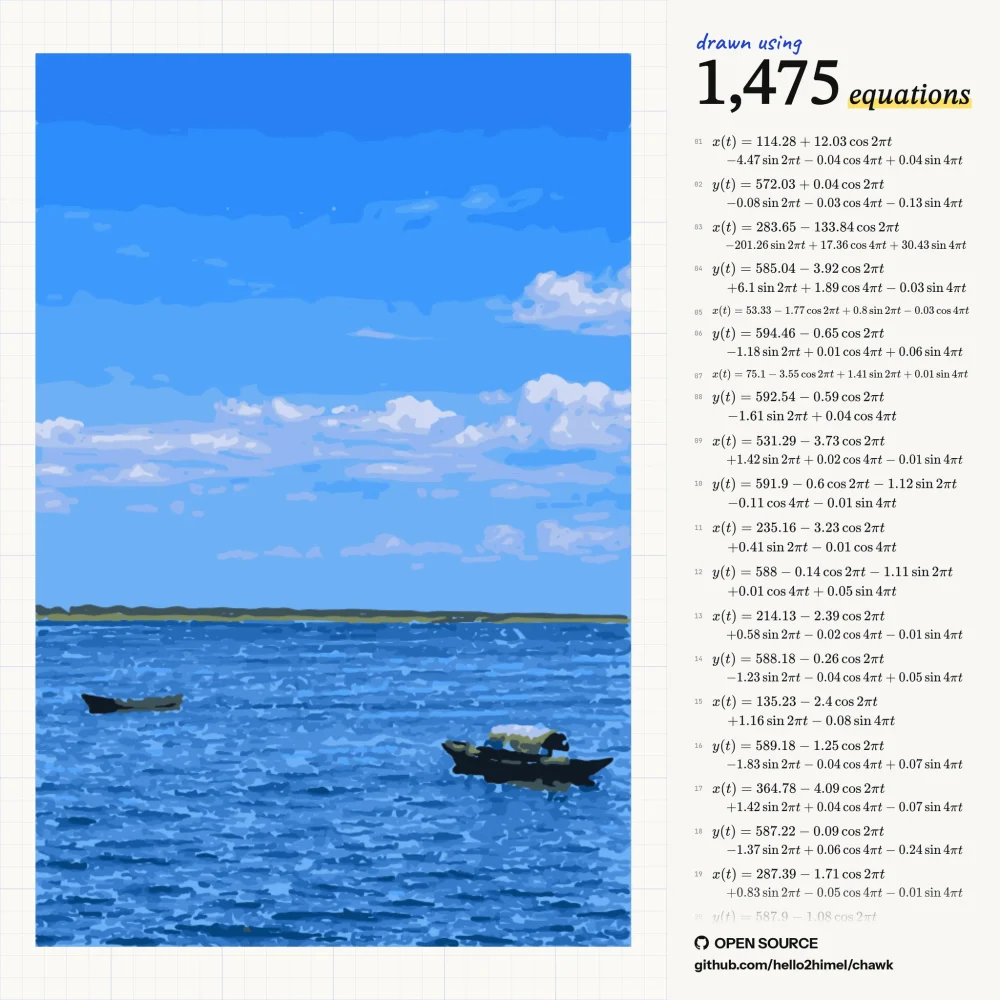
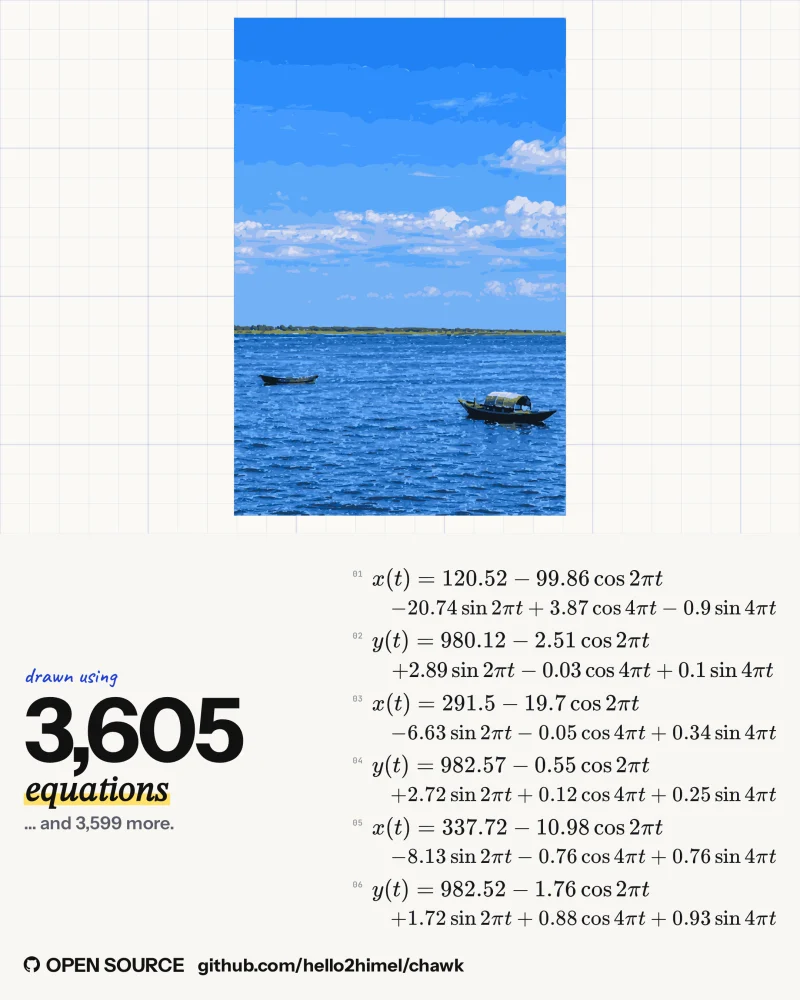
Poster: 4:5 with a 3:2 image window and a filled equation column
- 1080x1350 (2x -> 2160x2700) social poster
- image space is 3:2; other aspects fit inside it, never fill
- bottom band: large count, as many 26px KaTeX equations as fit, GitHub footer
- README demo regenerated from the river input
- version 1.1.11

diff --git a/frontend/app.js b/frontend/app.js
@@ -194,8 +194,9 @@ function splitAtOperator(text) {
 async function sheetCanvas(run) {
   await document.fonts.ready;
   const items = flattenSegments(run.report);
-  const label = formatCount(items.length);
-  const artURL = await fittedDataURL(run.images.redraw || state.url, 2400, 3600, 128);
+  const total = items.length;
+  const label = formatCount(total);
+  const artURL = await fittedDataURL(run.images.redraw || state.url, 2160, 1440, 48);
 
   const sheet = document.createElement("div");
   sheet.className = "social-sheet";
@@ -222,6 +223,13 @@ async function sheetCanvas(run) {
   word.className = "social-word";
   word.innerHTML = '<span class="hl"><i>equations</i></span>';
 
+  const headline = document.createElement("div");
+  headline.className = "social-headline";
+  headline.append(count, word);
+
+  const copy = document.createElement("div");
+  copy.className = "social-copy";
+
   const list = document.createElement("div");
   list.className = "social-list";
 
@@ -231,15 +239,13 @@ async function sheetCanvas(run) {
       if (line.trim()) pool.push({ line: line.trim().replace(/\s+/g, " "), model: it.seg.model });
     }
   }
-
-  let rows = 0;
-  for (let i = 0; i < 48 && pool.length; i++) {
-    const p = pool[i % pool.length];
+  const chosen = pool.slice(0, 12);
+  chosen.forEach((p, i) => {
     const row = document.createElement("div");
     row.className = "social-eq";
     const n = document.createElement("span");
     n.className = "n";
-    n.textContent = String(rows + 1).padStart(2, "0");
+    n.textContent = String(i + 1).padStart(2, "0");
     const maths = document.createElement("div");
     maths.className = "social-maths";
     const q = document.createElement("div");
@@ -249,34 +255,42 @@ async function sheetCanvas(run) {
     row.__eq = p;
     row.append(n, maths);
     list.append(row);
-    rows += 1;
-  }
-  const fade = document.createElement("div");
-  fade.className = "social-fade";
-  list.append(fade);
+  });
+
+  const more = document.createElement("div");
+  more.className = "social-more";
+
+  copy.append(lead, headline, more);
+  const eqs = document.createElement("div");
+  eqs.className = "social-eqs";
+  eqs.append(list);
+
+  const top = document.createElement("div");
+  top.className = "social-top";
+  top.append(copy, eqs);
 
   const footwrap = document.createElement("div");
   footwrap.className = "social-footwrap";
   const foot = document.createElement("div");
   foot.className = "social-foot";
-  foot.innerHTML = `<svg width="26" height="26" viewBox="0 0 16 16" fill="currentColor" aria-hidden="true"><path d="${GITHUB_MARK}"></path></svg><span>OPEN SOURCE</span>`;
+  foot.innerHTML = `<svg width="22" height="22" viewBox="0 0 16 16" fill="currentColor" aria-hidden="true"><path d="${GITHUB_MARK}"></path></svg><span>OPEN SOURCE</span>`;
   const url = document.createElement("div");
   url.className = "social-url";
   url.textContent = "github.com/hello2himel/chawk";
   footwrap.append(foot, url);
 
-  const headline = document.createElement("div");
-  headline.className = "social-headline";
-  headline.append(count, word);
-  panel.append(lead, headline, list, footwrap);
+  panel.append(top, footwrap);
   sheet.append(art, panel);
   document.body.append(sheet);
   try {
     await document.fonts.ready;
     await new Promise((resolve) => requestAnimationFrame(() => requestAnimationFrame(resolve)));
-    // fit each equation after KaTeX fonts and layout have settled: give it a
-    // big size, split at an operator when needed, then shrink only as a last
-    // resort so the maths stays readable.
+    let size = 120;
+    count.style.fontSize = `${size}px`;
+    while (count.scrollWidth > 420 && size > 88) {
+      size -= 2;
+      count.style.fontSize = `${size}px`;
+    }
     const fitLine = (el) => {
       let fs = 26;
       el.style.fontSize = `${fs}px`;
@@ -302,22 +316,16 @@ async function sheetCanvas(run) {
         }
       }
     }
-    // keep the count huge, but let it share one line with "equations" when
-    // that is possible; only wrap when it genuinely cannot fit.
-    let size = 150;
-    count.style.fontSize = `${size}px`;
-    while (count.scrollWidth > 500 && size > 80) {
-      size -= 4;
-      count.style.fontSize = `${size}px`;
+    // keep only the rows that fit the space above the footer
+    const avail = top.clientHeight;
+    while (list.scrollHeight > avail && list.lastElementChild) {
+      list.lastElementChild.remove();
     }
-    const wordW = word.getBoundingClientRect().width;
-    while (size > 100 && count.getBoundingClientRect().width + 14 + wordW > 500) {
-      size -= 2;
-      count.style.fontSize = `${size}px`;
-    }
+    const shown = list.children.length;
+    if (total > shown) more.textContent = `… and ${formatCount(total - shown)} more.`;
     return await html2canvas(sheet, {
       backgroundColor: "#F8F7F3", scale: 2, logging: false,
-      width: 1800, height: 1800, windowWidth: 1800, windowHeight: 1800,
+      width: 1080, height: 1350, windowWidth: 1080, windowHeight: 1350,
     });
   } finally {
     sheet.remove();
@@ -381,7 +389,7 @@ async function downloadSideBySide(run) {
     const wait = Math.max(0, 420 - (performance.now() - t0));
     if (wait) await new Promise((resolve) => setTimeout(resolve, wait));
     downloadURL(run.sheetURL, baseName() + "-side-by-side.png");
-    toast("Side-by-side sheet saved.", "3600×3600 PNG");
+    toast("Side-by-side sheet saved.", "2160×2700 PNG");
   } catch (e) {
     toast("Could not build the poster", e.message || String(e));
   } finally {

diff --git a/frontend/styles.css b/frontend/styles.css
@@ -291,26 +291,30 @@ input[type=range]{width:100%;accent-color:#1F3FD1;min-height:32px}
 .sheetcheck{display:flex;align-items:center;gap:6px;font-size:13px;font-weight:600;cursor:pointer}
 
 /* ---------- square social poster (DOM + KaTeX) ---------- */
-.social-sheet{position:absolute;left:-20000px;top:0;width:1800px;height:1800px;display:flex;background:#F8F7F3;color:#111;font-family:'Instrument Sans',sans-serif}
-.social-art{width:1200px;height:1800px;flex:none;overflow:hidden;background:#F8F7F3}
-.social-art img{display:block;width:1200px;height:1800px}
-.social-panel{position:relative;width:600px;height:1800px;padding:50px;box-sizing:border-box;display:flex;flex-direction:column}
-.social-lead{font-family:'Caveat','Segoe Script',cursive;font-weight:600;font-size:46px;line-height:1;color:#1F3FD1}
-.social-headline{display:flex;flex-wrap:wrap;align-items:baseline;column-gap:14px;row-gap:2px;margin-top:2px}
-.social-count{font-family:'STIX Two Text',Georgia,serif;font-weight:800;font-size:150px;line-height:.95;letter-spacing:-.03em;white-space:nowrap;color:#111}
-.social-word{font-family:'STIX Two Text',Georgia,serif;font-style:italic;font-weight:700;font-size:52px;line-height:1.08;color:#111}
+.social-sheet{position:absolute;left:-20000px;top:0;width:1080px;height:1350px;display:flex;flex-direction:column;background:#F8F7F3;color:#111;font-family:'Instrument Sans',sans-serif}
+.social-art{width:1080px;height:720px;flex:none;overflow:hidden;background:#F8F7F3}
+.social-art img{display:block;width:1080px;height:720px}
+.social-panel{width:1080px;height:630px;padding:32px;box-sizing:border-box;display:flex;flex-direction:column;gap:14px}
+.social-top{display:flex;gap:24px;align-items:center;flex:1;min-height:0}
+.social-copy{width:420px;flex:none;display:flex;flex-direction:column}
+.social-headline{display:flex;flex-direction:column;align-items:flex-start;gap:0;margin-top:2px}
+.social-lead{font-family:'Caveat','Segoe Script',cursive;font-weight:600;font-size:30px;line-height:1;color:#1F3FD1}
+.social-count{font-family:'Instrument Sans',sans-serif;font-weight:800;font-size:120px;line-height:.95;letter-spacing:-.045em;white-space:nowrap;color:#111}
+.social-word{font-family:'STIX Two Text',Georgia,serif;font-style:italic;font-weight:700;font-size:48px;line-height:1.05;color:#111}
 .social-word .hl{padding:0 .05em}
-.social-list{flex:1;min-height:0;overflow:hidden;display:flex;flex-direction:column;gap:12px;margin-top:26px;position:relative}
-.social-eq{display:flex;gap:10px;align-items:flex-start}
-.social-eq .n{font-family:'JetBrains Mono',monospace;font-weight:700;font-size:12px;line-height:1.5;color:#8A8D98;padding-top:7px;min-width:22px;flex:none}
-.social-eq .social-maths{display:flex;flex-direction:column;gap:2px;flex:1;min-width:0}
+.social-eqs{flex:1;min-width:0;max-height:100%;overflow:hidden;display:flex;flex-direction:column;gap:8px}
+.social-list{flex:none;display:flex;flex-direction:column;gap:6px;margin-top:0;position:relative}
+.social-eq{display:flex;gap:8px;align-items:flex-start}
+.social-eq .n{font-family:'JetBrains Mono',monospace;font-weight:700;font-size:11px;line-height:1.5;color:#8A8D98;padding-top:4px;min-width:18px;flex:none}
+.social-eq .social-maths{display:flex;flex-direction:column;gap:1px;flex:1;min-width:0}
 .social-eq .social-math{font-family:'STIX Two Text',Georgia,serif;font-size:26px;line-height:1.2;color:#15161A;min-width:0;white-space:nowrap;overflow:hidden}
 .social-eq .social-math.cont{padding-left:1.05em}
-.social-eq .katex{font-size:1em}
-.social-footwrap{margin-top:16px;flex:none}
-.social-foot{display:flex;align-items:center;gap:10px;font-weight:800;font-size:26px;color:#111}
+.social-more{font-family:'Instrument Sans',sans-serif;font-size:20px;font-weight:600;color:#5A5D68;margin-top:10px}
+.social-footwrap{margin-top:auto;padding-top:4px;flex:none;display:flex;align-items:center;gap:18px}
+.social-foot{display:flex;align-items:center;gap:8px;font-weight:800;font-size:26px;color:#111;white-space:nowrap}
 .social-foot svg{display:block}
-.social-url{font-weight:700;font-size:24px;margin-top:8px;white-space:nowrap;color:#111}
+.social-url{font-weight:700;font-size:24px;white-space:nowrap;color:#111}
 
 .social-list{position:relative}
-.social-fade{position:absolute;left:0;right:0;bottom:0;height:72px;background:linear-gradient(rgba(248,247,243,0),#F8F7F3);pointer-events:none}
+
+.social-more{font-family:'Instrument Sans',sans-serif;font-size:24px;font-weight:600;color:#5A5D68;margin-top:4px}

diff --git a/frontend/index.html b/frontend/index.html
@@ -21,7 +21,7 @@
       <span class="libcount" id="library-count" hidden>0</span>
     </button>
 
-    <span class="m hide-m" id="start-meta">v1.1.10 · connected</span>
+    <span class="m hide-m" id="start-meta">v1.1.11 · connected</span>
 
     <button class="btn" id="check-change" hidden>
       <span class="hide-m">Choose another</span><span class="show-m">Change</span>
@@ -290,7 +290,7 @@
   </button>
   <button role="menuitem" class="row dl-item" data-img="sidebyside">
     <svg width="56" height="40" viewBox="0 0 56 40" aria-hidden="true" style="flex:none"><rect width="56" height="40" rx="5" fill="#FAF9F4" stroke="#DDD9CC"></rect><rect x="5" y="5" width="20" height="30" rx="2" fill="#fff" stroke="#DDD9CC"></rect><path d="M9 26C13 16 16 16 21 25" fill="none" stroke="#0F6E5A" stroke-width="1.6" stroke-linecap="round"></path><path d="M31 11h19M31 17h19M31 23h13M31 29h16" stroke="#15161A" stroke-opacity=".45" stroke-width="1.5" stroke-linecap="round"></path></svg>
-    <span><b style="font-size:14px">Side by side</b><br><span class="m">A square poster — the drawn image on the left, the equations on the right</span></span>
+    <span><b style="font-size:14px">Poster</b><br><span class="m">A 4:5 poster — the drawing in a 3:2 window above the equations</span></span>
   </button>
   <p class="m" style="font-weight:600;padding:10px 10px 6px;border-top:1px solid #E9E5DA;margin-top:6px">Copy or save the math</p>
   <div style="display:flex;gap:6px;flex-wrap:wrap;padding:0 8px 8px">

diff --git a/chawk/__init__.py b/chawk/__init__.py
@@ -3,7 +3,7 @@
 from .config import Config, PRESETS, build_config
 from .pipeline import NoStrokesDetected, Result, process_image
 
-__version__ = "1.1.10"
+__version__ = "1.1.11"
 __all__ = [
     "Config",
     "PRESETS",

diff --git a/README.md b/README.md
@@ -2,9 +2,9 @@
 
 **Every squiggle is a function.**
 
-<img src="docs/demo-output.webp" width="400" alt="Demo poster: a serene blue river beside the 1,475 equations that redraw it">
+<img src="docs/demo-output.webp" width="400" alt="Demo poster: a serene blue river above the 3,605 equations that redraw it">
 
-*A demo poster: the drawing on the left, its 1,475 equations on the right.*
+*A demo poster: the drawing in a 3:2 window, its 3,605 equations below.*
 
 Chawk reads a line drawing (or flat-colour illustration), finds a real equation for
 every stroke or region, and redraws the picture using nothing but those equations. It runs on your own machine — no account,
